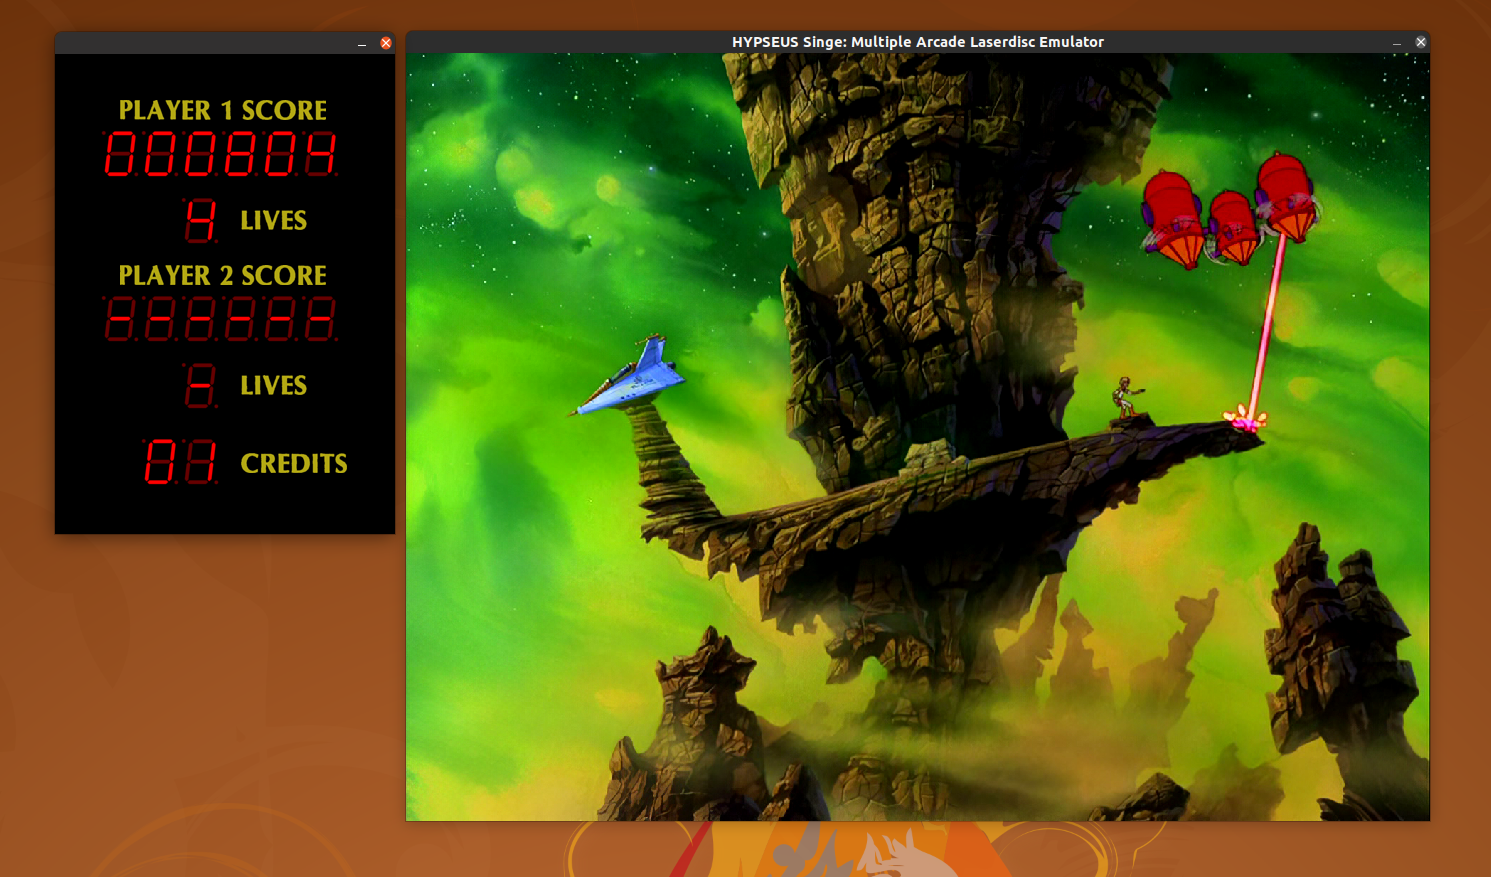
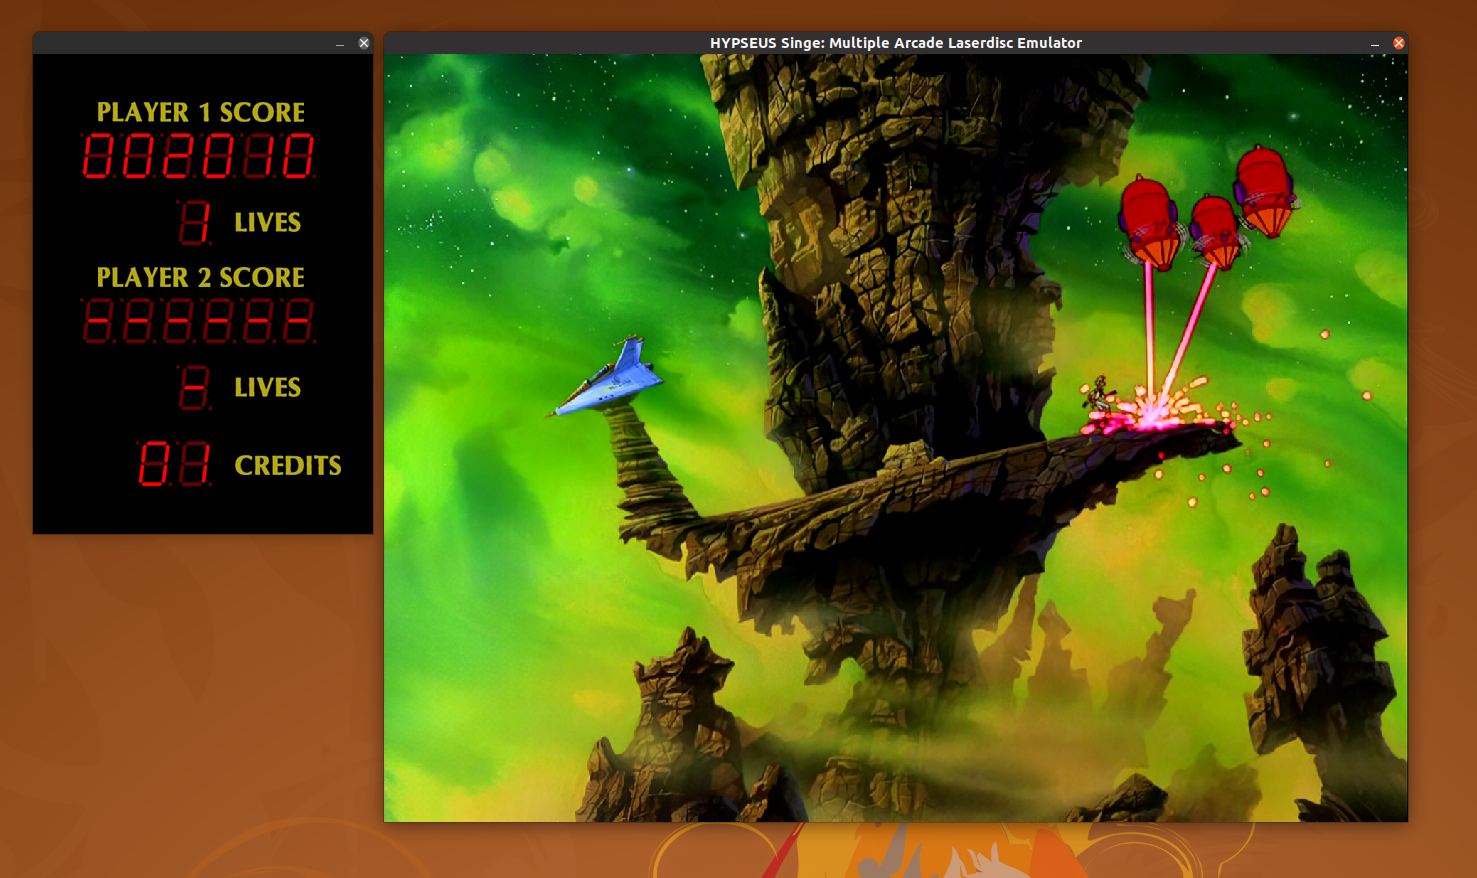
OCD Release   * Alignment of seven-segment LEDS to 0riginal scoreboard format

diff --git a/src/scoreboard/img_scoreboard.cpp b/src/scoreboard/img_scoreboard.cpp
@@ -11,10 +11,10 @@
 
 const int player_title_x = 65;
 const int player_score_x = 45;
-const int player1_score_y = 73;
+const int player1_score_y = 75;
 const int player1_title_y = player1_score_y - 27;
 const int player1_lives_y = player1_score_y + LED_HEIGHT + 14;
-const int player_lives_x = 150 - LED_WIDTH + 15;
+const int player_lives_x = 166 - LED_WIDTH + 15;
 const int player1_lives_title_y = player1_lives_y + (LED_HEIGHT/2) - (TITLE_HEIGHT/2);	// centered with LED
 const int player_lives_title_x = player_lives_x + LED_WIDTH + 21;
 const int player2_score_y = player1_lives_y + LED_HEIGHT + 45;

diff --git a/README.md b/README.md
@@ -17,7 +17,7 @@ Features:
 * Singe joystick [mouse] support
 * Psuedo Singe 2 support (details below)
 * Advanced multi joystick configuration
-* Software 'lair/ace' scoreboard in-game: [preview](screenshots/scoreboard.png)
+* Software 'lair/ace' original scoreboard: [preview](screenshots/scoreboard.png)
 * PNG screenshots
 * Windows Port
 * Bugs
@@ -100,7 +100,7 @@ Configure **joystick buttons** in [hypinput.ini](https://github.com/DirtBagXon/h
 
 ## Software Scoreboard
 
-Enable the original style external scoreboard panel in [lair/ace](screenshots/scoreboard.png): `-software_scoreboard`
+Enable the original style external [scoreboard panel](screenshots/scoreboard.png) in lair/ace: `-software_scoreboard`
 
 Works in conjunction with `-fullscreen_window` or normal windowed mode.
 
